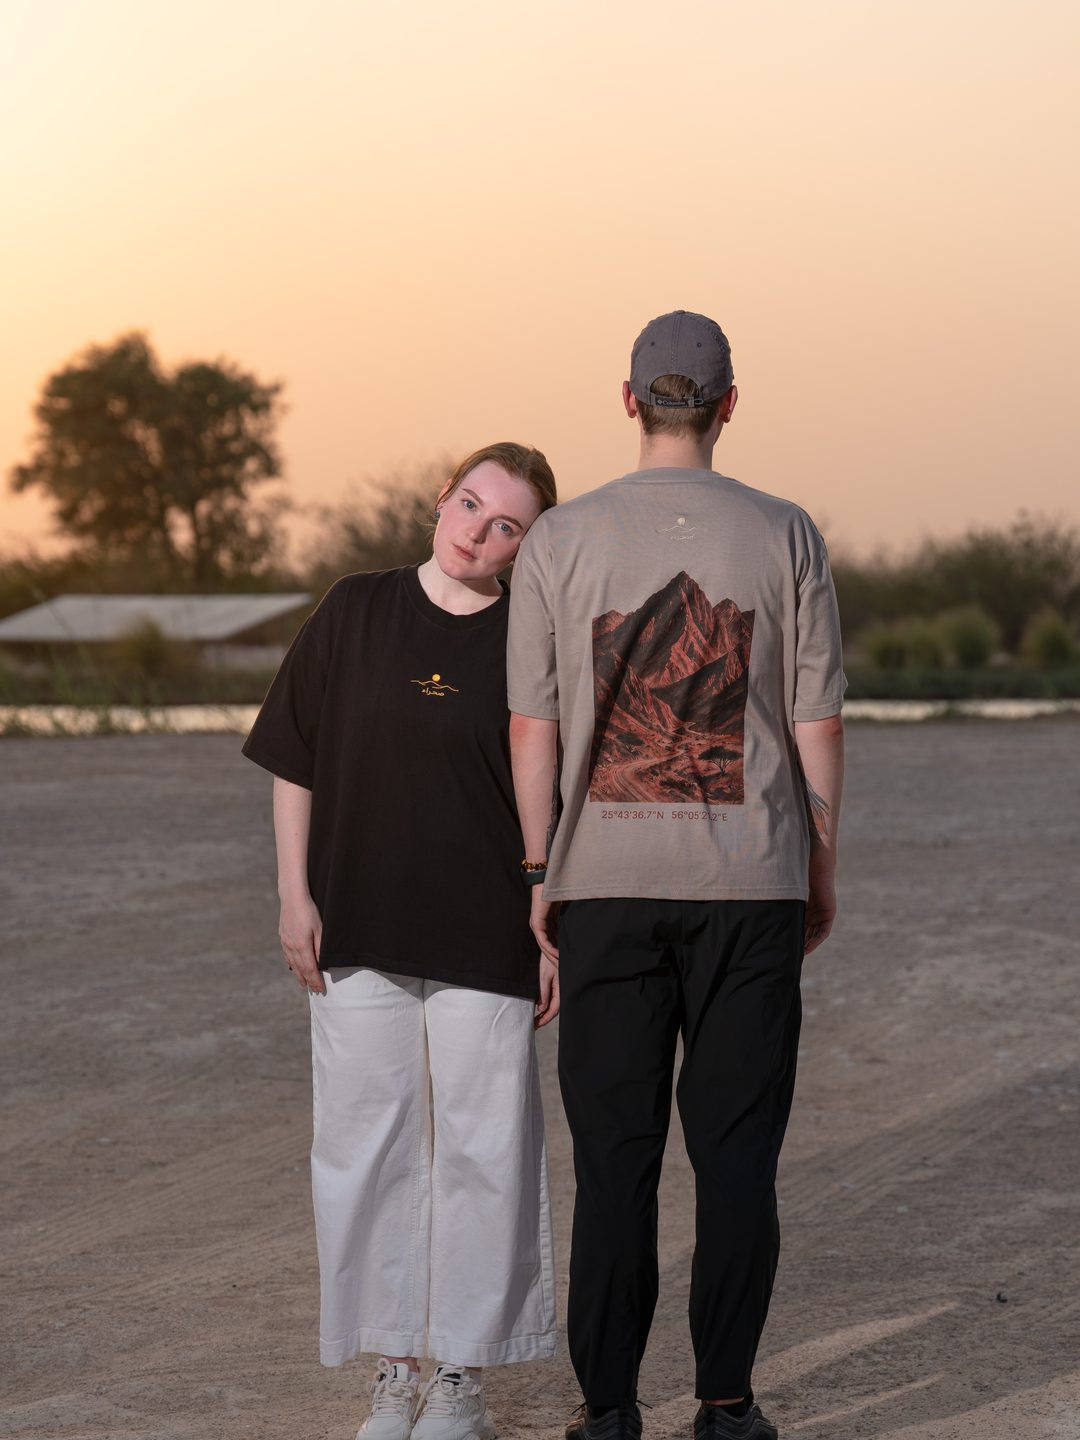
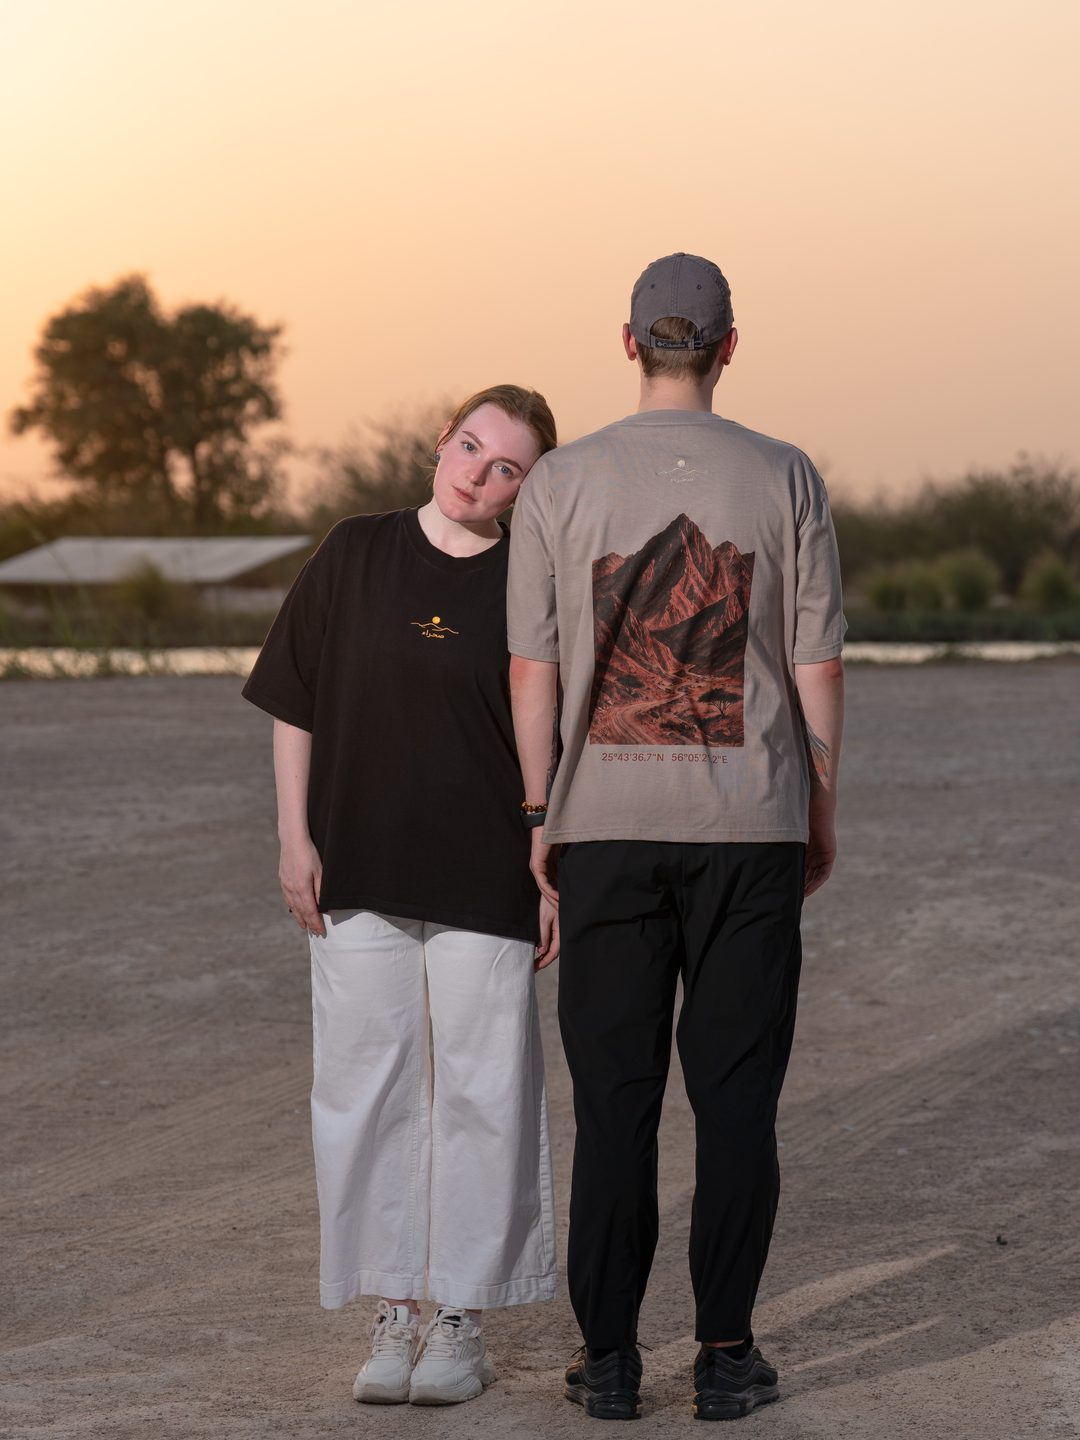
Hero: drop the panel, tagline on the photo, info across 5 slides

diff --git a/index.html b/index.html
@@ -636,6 +636,22 @@ footer{position:relative;z-index:2}
 </style>
 <script>try{var g=sessionStorage.getItem('sb_geo');if(g&&/^[A-Z]{2}$/.test(g)){document.documentElement.setAttribute('data-market',g==='AE'?'uae':(['SA','QA','OM','BH','KW'].indexOf(g)>-1?'gcc':'intl'));}}catch(e){}</script>
 <style data-hslide>
+/* ---- hero: the photograph IS the hero (Faheem, 21 Sep) -------------------
+   The frosted .col panel was covering the slideshow, so it is removed HERE ONLY -
+   the same rule also dresses #s-alquaa/#s-liwa/#s-naqab/#s-news and they still
+   need it. Tagline sits on the photo, the changing caption under it, CTA below.
+   Without the panel there is no backdrop-filter to lift the type off the image,
+   so legibility comes from a stronger scrim plus text-shadow instead. */
+#s-hero .col{
+  background:none!important;-webkit-backdrop-filter:none!important;backdrop-filter:none!important;
+  border:0!important;box-shadow:none!important;padding:0 18px!important;
+  max-width:860px;margin:0 auto;text-align:center}
+#s-hero .j-wrap{justify-content:center!important;align-items:center}
+#s-hero h1{text-align:center;text-shadow:0 2px 30px rgba(8,6,14,.82),0 1px 8px rgba(8,6,14,.72)}
+#s-hero .actions{justify-content:center}
+#s-hero .hslide-scrim{background:linear-gradient(180deg,rgba(10,8,18,.66) 0%,rgba(10,8,18,.52) 34%,
+  rgba(10,8,18,.50) 60%,rgba(10,8,18,.84) 100%)}
+
 /* The ring used to be a flex child of #s-hero .j-wrap sized by
    #s-hero .hring{flex:0 0 clamp(340px,44vw,600px)}. Out here its container is a
    1200px block, and heroRing() measures the live stage width to size the cards
@@ -667,18 +683,28 @@ footer{position:relative;z-index:2}
 /* RIGHT side, not left: the text column owns the left half and the caption was
    rendering behind the CTA buttons, clipped and unreadable. The right inset also
    clears the section-progress dot rail pinned to the right edge. */
-.hslide-cap{position:absolute;right:0;bottom:124px;z-index:4;pointer-events:none;
-  height:64px;width:min(40ch,42vw)}
-.hslide-cap-i{position:absolute;right:clamp(70px,7vw,118px);bottom:0;width:min(34ch,36vw);
-  text-align:right;opacity:0;transform:translateY(6px);
+.hslide-cap{position:relative;height:84px;margin:14px auto 22px;width:100%;max-width:660px;
+  pointer-events:none}
+.hslide-cap-i{position:absolute;left:0;right:0;top:0;text-align:center;opacity:0;transform:translateY(6px);
+  text-shadow:0 2px 18px rgba(8,6,14,.85),0 1px 5px rgba(8,6,14,.8);
   transition:opacity .55s ease,transform .55s ease;
   font-family:Jost,system-ui,sans-serif;font-size:15px;line-height:1.5;color:#F2EADC;
   max-width:46ch;text-shadow:0 1px 14px rgba(8,6,14,.75)}
 .hslide-cap-i.is-on{opacity:1;transform:none}
-.hslide-cap-i b{display:block;font-family:'Space Mono',monospace;font-size:10.5px;
+/* :first-child, not every b: 'AED 199' inside the caption body was being turned
+   into a second gold block eyebrow on its own line. Only the leading label is one. */
+.hslide-cap-i>b:first-child{display:block;font-family:'Space Mono',monospace;font-size:10.5px;
   letter-spacing:2.4px;text-transform:uppercase;color:#E9B978;margin-bottom:7px;font-weight:400}
-.hslide-dots{position:absolute;right:0;bottom:82px;z-index:5;display:flex;gap:9px;
-  padding:0 clamp(70px,7vw,118px) 0 0;justify-content:flex-end}
+.hslide-cap-i b{color:#F7EFE2;font-weight:600}
+/* slide 5 is the existing .meta row (stars, shipping, returns) moved in whole so
+   sahra-market.js and the review script still find their own elements */
+/* slide 5's spans flow inline - stacked, the stars + shipping + returns rows
+   overran the caption box. sahra-market.js hides the two shipping variants that
+   do not match the visitor's market, so only one shows. */
+.hslide-cap-i>span{display:inline;font-size:13.5px;line-height:1.8;color:#EDE3D4;margin:0 5px}
+.hslide-cap-i>span b{color:#E9B978}
+.hslide-cap-i .hero-stars{color:#E9B978;letter-spacing:1px}
+.hslide-dots{position:relative;z-index:5;display:flex;gap:9px;margin:22px auto 0;justify-content:center}
 .hslide-dot{width:30px;height:3px;padding:0;border:0;border-radius:2px;cursor:pointer;
   background:rgba(247,239,226,.34);transition:background .3s}
 .hslide-dot.is-on{background:#E9B978}
@@ -691,9 +717,9 @@ footer{position:relative;z-index:2}
      width resolved to nothing and every word wrapped onto its own line. Span the
      viewport and let the child inset from both edges instead. Raised clear of the
      floating WhatsApp and audio buttons. */
-  .hslide-cap{left:0;right:0;bottom:152px;height:auto;width:auto}
-  .hslide-cap-i{left:18px;right:18px;width:auto;text-align:left;font-size:13.5px}
-  .hslide-dots{left:0;right:0;bottom:120px;justify-content:flex-start;padding:0 0 0 18px}
+  .hslide-cap{height:100px;margin:12px auto 18px}
+  .hslide-cap-i{font-size:13.5px}
+  .hslide-dots{margin:18px auto 0;justify-content:center}
   .hslide-dot{width:26px}
 }
 @media(prefers-reduced-motion:reduce){
@@ -1133,13 +1159,12 @@ if(document.readyState==='loading')document.addEventListener('DOMContentLoaded',
 
 <!-- 1 · HERO · Liwa at golden hour -->
 <section class="stop tall right" id="s-hero" data-tod="dawn" data-bg="liwa">
-  <div class="hslide" aria-hidden="true"><figure class="hslide-f is-on" data-hs="0"><picture><source media="(max-width:760px)" srcset="/shirts/hero-places-p.jpg"><img src="/shirts/hero-places.jpg" alt="" width="1800" height="1200" fetchpriority="high" decoding="async"></picture></figure><figure class="hslide-f" data-hs="1"><picture><source media="(max-width:760px)" srcset="/shirts/hero-print-p.jpg"><img src="/shirts/hero-print.jpg" alt="" width="1800" height="1200" loading="lazy" decoding="async"></picture></figure><figure class="hslide-f" data-hs="2"><picture><source media="(max-width:760px)" srcset="/shirts/hero-fabric-p.jpg"><img src="/shirts/hero-fabric.jpg" alt="" width="1800" height="1200" loading="lazy" decoding="async"></picture></figure><figure class="hslide-f" data-hs="3"><picture><source media="(max-width:760px)" srcset="/shirts/hero-fits-p.jpg"><img src="/shirts/hero-fits.jpg" alt="" width="1800" height="1200" loading="lazy" decoding="async"></picture></figure><span class="hslide-scrim"></span></div><div class="hslide-cap" aria-hidden="true"><span class="hslide-cap-i is-on" data-hc="0"><b>From real places</b>Al Quaa, Liwa and Wadi Naqab &mdash; places you can drive to.</span><span class="hslide-cap-i" data-hc="1"><b>The print</b>Printed on two designs, embroidered on two.</span><span class="hslide-cap-i" data-hc="2"><b>The cloth</b>230 gsm combed ring-spun cotton.</span><span class="hslide-cap-i" data-hc="3"><b>The fits</b>Regular and oversized, same design.</span></div><div class="hslide-dots" aria-label="Hero slides"><button type="button" class="hslide-dot is-on" data-hd="0" aria-label="Slide 1 of 4: From real places"></button><button type="button" class="hslide-dot" data-hd="1" aria-label="Slide 2 of 4: The print"></button><button type="button" class="hslide-dot" data-hd="2" aria-label="Slide 3 of 4: The cloth"></button><button type="button" class="hslide-dot" data-hd="3" aria-label="Slide 4 of 4: The fits"></button></div>
+  <div class="hslide" aria-hidden="true"><figure class="hslide-f is-on" data-hs="0"><picture><source media="(max-width:760px)" srcset="/shirts/hero-places-p.jpg"><img src="/shirts/hero-places.jpg" alt="" width="1800" height="1200" fetchpriority="high" decoding="async"></picture></figure><figure class="hslide-f" data-hs="1"><picture><source media="(max-width:760px)" srcset="/shirts/hero-cloth-p.jpg"><img src="/shirts/hero-cloth.jpg" alt="" width="1800" height="1200" loading="lazy" decoding="async"></picture></figure><figure class="hslide-f" data-hs="2"><picture><source media="(max-width:760px)" srcset="/shirts/hero-making-p.jpg"><img src="/shirts/hero-making.jpg" alt="" width="1800" height="1200" loading="lazy" decoding="async"></picture></figure><figure class="hslide-f" data-hs="3"><picture><source media="(max-width:760px)" srcset="/shirts/hero-fits-p.jpg"><img src="/shirts/hero-fits.jpg" alt="" width="1800" height="1200" loading="lazy" decoding="async"></picture></figure><figure class="hslide-f" data-hs="4"><picture><source media="(max-width:760px)" srcset="/shirts/hero-trust-p.jpg"><img src="/shirts/hero-trust.jpg" alt="" width="1800" height="1200" loading="lazy" decoding="async"></picture></figure><span class="hslide-scrim"></span></div>
   <div class="j-wrap"><div class="col">
-    <span class="j-eyebrow rv">Original UAE t-shirts &middot; limited first run</span>
     <h1><span class="rv">Wear the</span> <em class="rv">wild side</em> <span class="rv">of the UAE.</span></h1>
-    <p class="lede rv"><b>230&nbsp;gsm heavyweight tees</b><span class="lede-l">, printed and embroidered with the deserts, dunes and dark-sky nights of the Emirates.</span><span class="lede-s">, printed and embroidered with the real places of the Emirates.</span> <b>AED&nbsp;199</b>.</p>
-    <div class="meta rv"><span class="hero-rv" data-hero-rv hidden><b class="hero-stars">&#9733;&#9733;&#9733;&#9733;&#9733;</b> <span class="hero-rv-n"></span></span><span class="sb-ship-uae"><b>Free</b> next-day UAE delivery &middot; order by 2 pm</span><span class="sb-ship-gcc">GCC 3&ndash;5 days &middot; free over AED 390</span><span class="sb-ship-intl">Worldwide 7&ndash;14 days</span><span>Free returns</span></div>
+    <div class="hslide-cap" aria-hidden="true"><span class="hslide-cap-i is-on" data-hc="0"><b>Limited first run</b>Three places you can drive to &mdash; Al Quaa, Liwa and Wadi Naqab.</span><span class="hslide-cap-i" data-hc="1"><b>The cloth</b>230 gsm combed ring-spun cotton. <b>AED&nbsp;199</b>.</span><span class="hslide-cap-i" data-hc="2"><b>The making</b>Printed on two designs, embroidered on two.</span><span class="hslide-cap-i" data-hc="3"><b>The fits</b>Regular and oversized, in the same design.</span><span class="hslide-cap-i" data-hc="4"><span class="hero-rv" data-hero-rv hidden><b class="hero-stars">&#9733;&#9733;&#9733;&#9733;&#9733;</b> <span class="hero-rv-n"></span></span><span class="sb-ship-uae"><b>Free</b> next-day UAE delivery &middot; order by 2 pm</span><span class="sb-ship-gcc">GCC 3&ndash;5 days &middot; free over AED 390</span><span class="sb-ship-intl">Worldwide 7&ndash;14 days</span><span>Free returns</span></span></div>
     <div class="actions rv"><a class="j-btn solid" href="#collection" data-ring-jump>See the collection &#8964;</a><a class="j-btn" href="/places/">The places behind them</a></div>
+    <div class="hslide-dots" aria-label="Hero slides"><button type="button" class="hslide-dot is-on" data-hd="0" aria-label="Slide 1 of 5"></button><button type="button" class="hslide-dot" data-hd="1" aria-label="Slide 2 of 5"></button><button type="button" class="hslide-dot" data-hd="2" aria-label="Slide 3 of 5"></button><button type="button" class="hslide-dot" data-hd="3" aria-label="Slide 4 of 5"></button><button type="button" class="hslide-dot" data-hd="4" aria-label="Slide 5 of 5"></button></div>
   </div>
   </div>
   <div class="scroll-cue">Scroll — the journey begins &#8964;</div>
